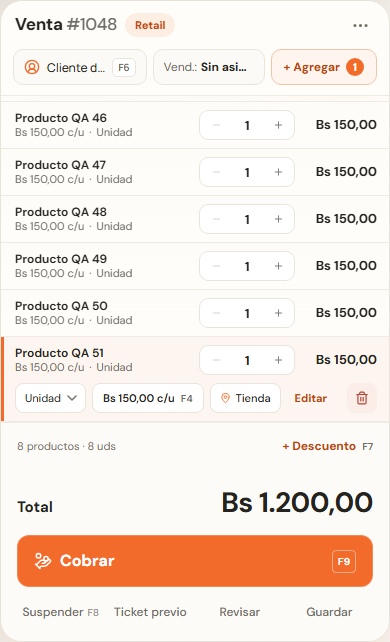
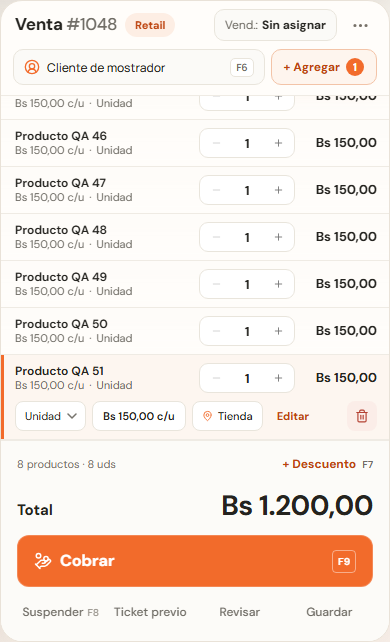
fix: carrito compacto, vendedor en el encabezado y avisos por canal
- Chip de vendedor a la fila 1 (antes del menú ⋯, máx. 140 px, nombre completo en title);
  fila 2 queda para cliente + Agregar.
- .cart-fix-lines: sin precio cuenta en todos los canales; sin stock solo en retail,
  documentos y mayoreo.
- Controles de la línea seleccionada en una fila a 390 px; sin hueco extra entre meta y total.

diff --git a/src/styles/pos-carrito-compacto.css b/src/styles/pos-carrito-compacto.css
@@ -12,7 +12,7 @@
 }
 
 /* ── Encabezado: dos filas ─────────────────────────────────────────────── */
-.pos-root .cart-panel.cart-panel-light .cart-header { display: flex; align-items: center; gap: 8px; min-height: 48px; padding: 0 14px; }
+.pos-root .cart-panel.cart-panel-light .cart-header { position: relative; display: flex; align-items: center; gap: 8px; min-height: 48px; padding: 0 14px; }
 .pos-root .cart-panel.cart-panel-light .cart-header h2 { margin: 0; font-size: 17px; font-weight: 800; letter-spacing: -.3px; color: var(--cc-ink); }
 .pos-root .cart-panel.cart-panel-light .cart-header h2 b { font-size: 17px; font-weight: 500; color: var(--cc-muted); }
 .pos-root .cart-panel.cart-panel-light .channel-badge { padding: 4px 10px; border-radius: 999px; background: #fdeee4; color: #bd430e; font-size: 11px; font-weight: 700; }
@@ -30,11 +30,12 @@
 .pos-root .cart-panel.cart-panel-light .cart-toolbar .customer-select.required small { display: block; font-size: 9px; letter-spacing: .08em; color: #a83f13; }
 .pos-root .cart-panel.cart-panel-light .cart-toolbar .customer-picker-panel { left: 12px; right: 12px; top: calc(100% - 4px); z-index: 40; }
 
-.pos-root .cart-panel.cart-panel-light .cart-seller-details { position: static; flex: none; margin: 0; }
-.pos-root .cart-panel.cart-panel-light .cart-seller-details > summary { display: flex; align-items: center; gap: 4px; height: 36px; max-width: 112px; padding: 0 10px; border: 1px solid var(--cc-line-strong); border-radius: 10px; background: #fbfaf7; color: var(--cc-muted); font-size: 12px; white-space: nowrap; cursor: pointer; list-style: none; }
+.pos-root .cart-panel.cart-panel-light .cart-seller-details { position: static; flex: 0 1 auto; min-width: 0; margin: 0 0 0 auto; }
+.pos-root .cart-panel.cart-panel-light .cart-header .cart-operation-menu { margin-left: 0; }
+.pos-root .cart-panel.cart-panel-light .cart-seller-details > summary { display: flex; align-items: center; gap: 4px; height: 32px; max-width: 140px; padding: 0 10px; border: 1px solid var(--cc-line-strong); border-radius: 10px; background: #fbfaf7; color: var(--cc-muted); font-size: 12px; white-space: nowrap; cursor: pointer; list-style: none; }
 .pos-root .cart-panel.cart-panel-light .cart-seller-details > summary strong { min-width: 0; overflow: hidden; text-overflow: ellipsis; color: var(--cc-ink); font-weight: 700; }
 .pos-root .cart-panel.cart-panel-light .cart-seller-details[open] > summary { border-color: var(--cc-orange); }
-.pos-root .cart-panel.cart-panel-light .cart-seller-details .cart-seller-field { position: absolute; z-index: 40; left: 12px; right: 12px; top: calc(100% - 4px); margin: 0; padding: 10px 12px; border: 1px solid var(--cc-line-strong); border-radius: 12px; background: #fff; box-shadow: 0 14px 34px #28251d1c; }
+.pos-root .cart-panel.cart-panel-light .cart-seller-details .cart-seller-field { position: absolute; z-index: 40; left: 12px; right: 12px; top: calc(100% - 6px); margin: 0; padding: 10px 12px; border: 1px solid var(--cc-line-strong); border-radius: 12px; background: #fff; box-shadow: 0 14px 34px #28251d1c; }
 
 .pos-root .cart-panel.cart-panel-light .cart-add-menu { position: static; flex: none; }
 .pos-root .cart-panel.cart-panel-light .cart-add-menu > summary { display: flex; align-items: center; gap: 6px; height: 36px; padding: 0 12px; border: 1px solid #f3c4a8; border-radius: 10px; background: #fef5ee; color: #bd430e; font-size: 12px; font-weight: 700; white-space: nowrap; cursor: pointer; list-style: none; }
@@ -86,16 +87,16 @@
 .pos-root .cart-panel.cart-panel-light .cart-line-row .line-total { flex: 0 0 72px; width: 72px; margin: 0; padding: 0; text-align: right; font-size: 13px; font-weight: 700; font-variant-numeric: tabular-nums; color: var(--cc-ink); white-space: nowrap; }
 
 /* Controles de la línea seleccionada */
-.pos-root .cart-panel.cart-panel-light .cart-line-tools { display: flex; flex-wrap: wrap; align-items: center; gap: 6px; padding: 0 12px 8px 14px; }
-.pos-root .cart-panel.cart-panel-light .cart-line-tools .cart-presentacion-select { width: auto; max-width: 150px; height: 30px; padding: 0 24px 0 9px; border: 1px solid var(--cc-line-strong); border-radius: 8px; background-color: #fff; font-size: 11px; color: var(--cc-ink); }
-.pos-root .cart-panel.cart-panel-light .cart-line-tools .price-inline-display { display: inline-flex; align-items: center; gap: 6px; height: 30px; min-height: 30px; padding: 0 10px; border: 1px solid var(--cc-line-strong); border-radius: 8px; background: #fff; color: var(--cc-ink); font-size: 11px; font-weight: 600; cursor: pointer; }
+.pos-root .cart-panel.cart-panel-light .cart-line-tools { display: flex; flex-wrap: nowrap; align-items: center; gap: 6px; padding: 0 12px 8px 14px; }
+.pos-root .cart-panel.cart-panel-light .cart-line-tools .cart-presentacion-select { flex: 0 1 auto; width: auto; min-width: 0; max-width: 110px; height: 30px; padding: 0 24px 0 9px; border: 1px solid var(--cc-line-strong); border-radius: 8px; background-color: #fff; font-size: 11px; color: var(--cc-ink); }
+.pos-root .cart-panel.cart-panel-light .cart-line-tools .price-inline-display { flex: 0 1 auto; min-width: 0; white-space: nowrap; display: inline-flex; align-items: center; gap: 6px; height: 30px; min-height: 30px; padding: 0 10px; border: 1px solid var(--cc-line-strong); border-radius: 8px; background: #fff; color: var(--cc-ink); font-size: 11px; font-weight: 600; cursor: pointer; }
 .pos-root .cart-panel.cart-panel-light .cart-line-tools .price-inline-display:hover { border-color: var(--cc-orange); text-decoration: none; }
 .pos-root .cart-panel.cart-panel-light .cart-line-tools .price-inline-display kbd { font: inherit; font-size: 10px; font-weight: 600; color: var(--cc-muted); }
 .pos-root .cart-panel.cart-panel-light .cart-line-tools .price-inline-input { width: 90px; height: 30px; padding: 0 8px; border: 1px solid var(--cc-orange); border-radius: 8px; font-size: 12px; }
 .pos-root .cart-panel.cart-panel-light .cart-line-tools .origin-pin-trigger { height: 30px; padding: 0 9px; border: 1px solid var(--cc-line-strong); border-radius: 8px; background: #fff; color: var(--cc-ink); font-size: 11px; }
-.pos-root .cart-panel.cart-panel-light .cart-line-edit { height: 30px; padding: 0 8px; border: 0; border-radius: 8px; background: none; color: #bd430e; font-size: 11px; font-weight: 700; }
+.pos-root .cart-panel.cart-panel-light .cart-line-edit { flex: none; white-space: nowrap; height: 30px; padding: 0 8px; border: 0; border-radius: 8px; background: none; color: #bd430e; font-size: 11px; font-weight: 700; }
 .pos-root .cart-panel.cart-panel-light .cart-line-edit:hover { background: #fdeee4; }
-.pos-root .cart-panel.cart-panel-light .cart-line-tools .cart-remove-item { width: 30px; height: 30px; margin-left: auto; border-radius: 8px; background: #fbede8; color: #b44233; }
+.pos-root .cart-panel.cart-panel-light .cart-line-tools .cart-remove-item { flex: none; width: 30px; height: 30px; margin-left: auto; border-radius: 8px; background: #fbede8; color: #b44233; }
 .pos-root .cart-panel.cart-panel-light .cart-line-tools .cart-remove-item:hover { background: #f6d8d0; }
 
 /* Avisos de la línea */
@@ -151,3 +152,11 @@
 .pos-root .cart-panel.cart-panel-light .cart-secondary-row > button kbd { font: inherit; font-size: 10px; color: #9a968e; }
 .pos-root .cart-panel.cart-panel-light .draft-button,
 .pos-root .cart-panel.cart-panel-light .secondary-actions button { height: 36px; border-radius: 10px; }
+
+.pos-root .cart-panel.cart-panel-light .cart-line-tools .origin-pin-root { flex: 0 1 auto; min-width: 0; }
+@media (max-width: 1500px) {
+  .pos-root .cart-panel.cart-panel-light .cart-line-tools .price-inline-display kbd { display: none; }
+}
+/* Sin huecos extra entre la fila de meta y el total: manda el gap de 8 px del pie. */
+.pos-root .cart-panel.cart-panel-light .cart-summary-meta { margin-bottom: 0; }
+.pos-root .cart-panel.cart-panel-light .grand-total { margin-top: 0 !important; margin-bottom: 0 !important; }

diff --git a/src/components/CartPanel.tsx b/src/components/CartPanel.tsx
@@ -197,16 +197,6 @@ export function CartPanel({ notify, onOpenDraftOrder, onGoToCash, sellerName, on
   // fine, this only blocks at checkout time, mirroring insufficientOrigin's exact shape.
   const unpricedItems = cart.filter((item) => isLineUnpriced(item))
   const unpricedLine = unpricedItems.length > 0
-  // Un solo aviso para los motivos por línea (sin stock / sin precio), con salto a la primera.
-  // `venta` retail y documentos bloquean por ambos motivos; mayoreo solo si hay sin stock + sin precio.
-  const fixLineItems = cart.filter((item) => unpricedItems.includes(item) || (insufficientOrigin && blockingItems.includes(item)))
-  const goToFirstFixLine = () => {
-    const first = fixLineItems[0]
-    if (!first) return
-    setSelectedLineId(first.id)
-    requestAnimationFrame(() => document.querySelector('.cart-item-selected')?.scrollIntoView?.({ block: 'nearest' }))
-  }
-  const fixLinesButton = fixLineItems.length > 0 && <button type="button" className="cart-fix-lines" onClick={goToFirstFixLine}><span>{fixLineItems.length} {fixLineItems.length === 1 ? 'línea' : 'líneas'} para corregir</span><span>Ir a la primera →</span></button>
   // Brief S11 Bloque C: un ítem personalizado no tiene producto_id ni presentación base —
   // registrar_venta no lo puede vender. Solo bloquea "Cobrar" (venta directa); Guardar
   // borrador/Cotización siguen habilitados, es exactamente el camino que sí lo soporta.
@@ -452,6 +442,18 @@ export function CartPanel({ notify, onOpenDraftOrder, onGoToCash, sellerName, on
     setVtdCobroPickerOpen(false)
   }
   const quitarVtdCobro = (ventaId: string) => { if (warehouseLocked) { notify('Resuelve el rechazo desde la operación con Almacén.'); return }; setVtdCobroSeleccionadas(prev => prev.filter(v => v.ventaId !== ventaId)) }
+  // Un solo aviso para los motivos por línea (sin stock / sin precio), con salto a la primera.
+  // Sin precio cuenta en todos los canales; sin stock solo donde bloquea el cobro (retail, documentos y mayoreo).
+  const blockingCounts = channel === 'retail' || hasDocuments || channel === 'mayoreo'
+  const fixLineItems = cart.filter((item) => unpricedItems.includes(item) || (blockingCounts && blockingItems.includes(item)))
+  const goToFirstFixLine = () => {
+    const first = fixLineItems[0]
+    if (!first) return
+    setSelectedLineId(first.id)
+    requestAnimationFrame(() => document.querySelector('.cart-item-selected')?.scrollIntoView?.({ block: 'nearest' }))
+  }
+  const fixLinesButton = fixLineItems.length > 0 && <button type="button" className="cart-fix-lines" onClick={goToFirstFixLine}><span>{fixLineItems.length} {fixLineItems.length === 1 ? 'línea' : 'líneas'} para corregir</span><span>Ir a la primera →</span></button>
+  const sellerLabel = pedidoEnCarrito?.pedido.vendedor ?? vendedores.find(v => v.id === vendedorId)?.nombre ?? (vendedorId ? 'Asignado' : 'Sin asignar')
   const modeLabel = mode === 'traslado' ? 'Traslado' : mode === 'ventaDirecta' ? 'Venta directa' : 'Venta'
   return <aside className={`cart-panel ${mode !== 'traslado' ? 'cart-panel-light' : ''} ${creditorCustomer ? 'cart-acreedor' : ''}`}>
     <CajaAlmacenPanel />
@@ -459,6 +461,12 @@ export function CartPanel({ notify, onOpenDraftOrder, onGoToCash, sellerName, on
     <div className="cart-header">
       <h2>{modeLabel} <b>#{operationNumber}</b></h2>
       {mode === 'venta' && <span className="channel-badge">{channelNames[channel]}</span>}
+      {mode === 'venta' && (
+        <details className="cart-seller-details">
+          <summary title={sellerLabel}>Vend.: <strong>{sellerLabel}</strong></summary>
+          <div className="cart-seller-field"><label>Venta realizada por{pedidoEnCarrito ? <strong>{pedidoEnCarrito.pedido.vendedor}</strong> : <select aria-label="Venta realizada por" disabled={warehousePaid} value={vendedorId ?? ''} onChange={e => setVendedorId(e.target.value || undefined)}><option value="">Sin vendedor asignado</option>{vendedores.map(v => <option key={v.id} value={v.id}>{v.nombre}</option>)}</select>}</label></div>
+        </details>
+      )}
       <details className="cart-operation-menu">
         <summary aria-label="Cambiar modo de operación" title="Cambiar modo de operación"><MoreHorizontal /></summary>
         <div className="modo-group" role="group" aria-label="Modo de operación" onClick={event => { if ((event.target as HTMLElement).closest('button:not(:disabled)')) event.currentTarget.closest('details')?.removeAttribute('open') }}>
@@ -474,10 +482,6 @@ export function CartPanel({ notify, onOpenDraftOrder, onGoToCash, sellerName, on
         ? <><VtdUbicacionPicker value={vtdUbicacionId} onChange={setVtdUbicacionId} />{almacen.managed ? <p className="cash-closed-notice">Solicita el material y continúa con la VTA en esta misma operación. Cobrarás todo junto.</p> : <div className="vtd-modo-cobro" role="group" aria-label="Modo de cobro"><button type="button" className={vtdPrecobrado ? 'active' : ''} onClick={() => setVtdPrecobrado(true)}>Cobrar ahora</button><button type="button" className={!vtdPrecobrado ? 'active' : ''} onClick={() => setVtdPrecobrado(false)}>Cobrar después en caja</button></div>}</>
         : <div className="cart-toolbar">
             <CustomerPicker channel={channel} notify={notify} />
-            <details className="cart-seller-details">
-              <summary>Vend.: <strong>{pedidoEnCarrito?.pedido.vendedor ?? vendedores.find(v => v.id === vendedorId)?.nombre ?? (vendedorId ? 'Asignado' : 'Sin asignar')}</strong></summary>
-              <div className="cart-seller-field"><label>Venta realizada por{pedidoEnCarrito ? <strong>{pedidoEnCarrito.pedido.vendedor}</strong> : <select aria-label="Venta realizada por" disabled={warehousePaid} value={vendedorId ?? ''} onChange={e => setVendedorId(e.target.value || undefined)}><option value="">Sin vendedor asignado</option>{vendedores.map(v => <option key={v.id} value={v.id}>{v.nombre}</option>)}</select>}</label></div>
-            </details>
             <details className="cart-add-menu">
               <summary>+ Agregar{pedidosVendedorEnEspera > 0 && showPedidoAction && <span className="cart-add-badge" aria-hidden="true">{pedidosVendedorEnEspera}</span>}</summary>
               <div className="cart-add-items" role="group" aria-label="Agregar a la venta" onClick={event => { if ((event.target as HTMLElement).closest('button:not(:disabled)')) event.currentTarget.closest('details')?.removeAttribute('open') }}>

diff --git a/src/components/__tests__/CartPanel.compacto.test.tsx b/src/components/__tests__/CartPanel.compacto.test.tsx
@@ -149,6 +149,28 @@ describe('CartPanel compacto — cobro bloqueado', () => {
   })
 })
 
+describe('CartPanel compacto — canales no retail', () => {
+  it('institucional: sin stock no cuenta para el botón de corrección; sin precio sí', async () => {
+    renderPanel()
+    act(() => { pos().setChannel('institucional') })
+    act(() => { pos().addProduct(product(999, 'Sin stock'), 5) })
+    act(() => { pos().updateItem(999, { ubicacion: 'Tienda', origenManual: true }) })
+    await screen.findByText('Sin stock')
+    await waitFor(() => expect(document.querySelector('.cart-item-error')).not.toBeNull())
+    expect(document.querySelector('.cart-fix-lines')).toBeNull()
+    act(() => { pos().addCustomItem({ descripcion: 'Sello sin precio', cantidad: 1, precio: 0, unidadMedida: 'UNIDAD' }) })
+    await waitFor(() => expect(document.querySelector('.cart-fix-lines')?.textContent).toContain('1 línea para corregir'))
+  })
+
+  it('mayoreo: sin stock sí cuenta', async () => {
+    renderPanel()
+    act(() => { pos().setChannel('mayoreo') })
+    act(() => { pos().addProduct(product(999, 'Sin stock'), 5) })
+    act(() => { pos().updateItem(999, { ubicacion: 'Tienda', origenManual: true }) })
+    await waitFor(() => expect(document.querySelector('.cart-fix-lines')?.textContent).toContain('1 línea para corregir'))
+  })
+})
+
 describe('CartPanel compacto — menú + Agregar', () => {
   it('ofrece ítem personalizado, VTD y pedido con sus atajos y cierra al elegir', async () => {
     renderPanel()

diff --git a/e2e/carrito-ligero.spec.ts b/e2e/carrito-ligero.spec.ts
@@ -178,6 +178,16 @@ test('con 8 líneas la lista ligera es compacta: líneas ≤ 60 px y al menos 6 
   // La última línea agregada queda seleccionada (muestra sus controles); el resto es la línea compacta.
   for (const line of lines.filter(l => !l.selected)) expect(line.height).toBeLessThanOrEqual(60)
   expect(lines.filter(l => l.inside).length).toBeGreaterThanOrEqual(6)
+  // Controles de la línea seleccionada en una sola fila, y sin hueco extra entre la meta y el total.
+  const geometry = await page.evaluate(() => {
+    const tops = [...document.querySelectorAll('.cart-item-selected .cart-line-tools > *')].map(el => Math.round(el.getBoundingClientRect().top))
+    const meta = document.querySelector('.cart-summary-meta')!.getBoundingClientRect()
+    const total = document.querySelector('.grand-total')!.getBoundingClientRect()
+    return { rows: new Set(tops).size, gap: total.top - meta.bottom, panelOverflow: document.querySelector('.cart-panel-light')!.scrollWidth - document.querySelector('.cart-panel-light')!.clientWidth }
+  })
+  expect(geometry.rows).toBe(1)
+  expect(geometry.gap).toBeLessThanOrEqual(9)
+  expect(geometry.panelOverflow).toBeLessThanOrEqual(1)
   await page.setViewportSize({ width: 1920, height: 1080 })
   await page.locator('.cart-panel-light').screenshot({ path: '.ui-review.local/carrito-compacto-1920.png' })
   expect(writes.runtimeErrors).toEqual([])
